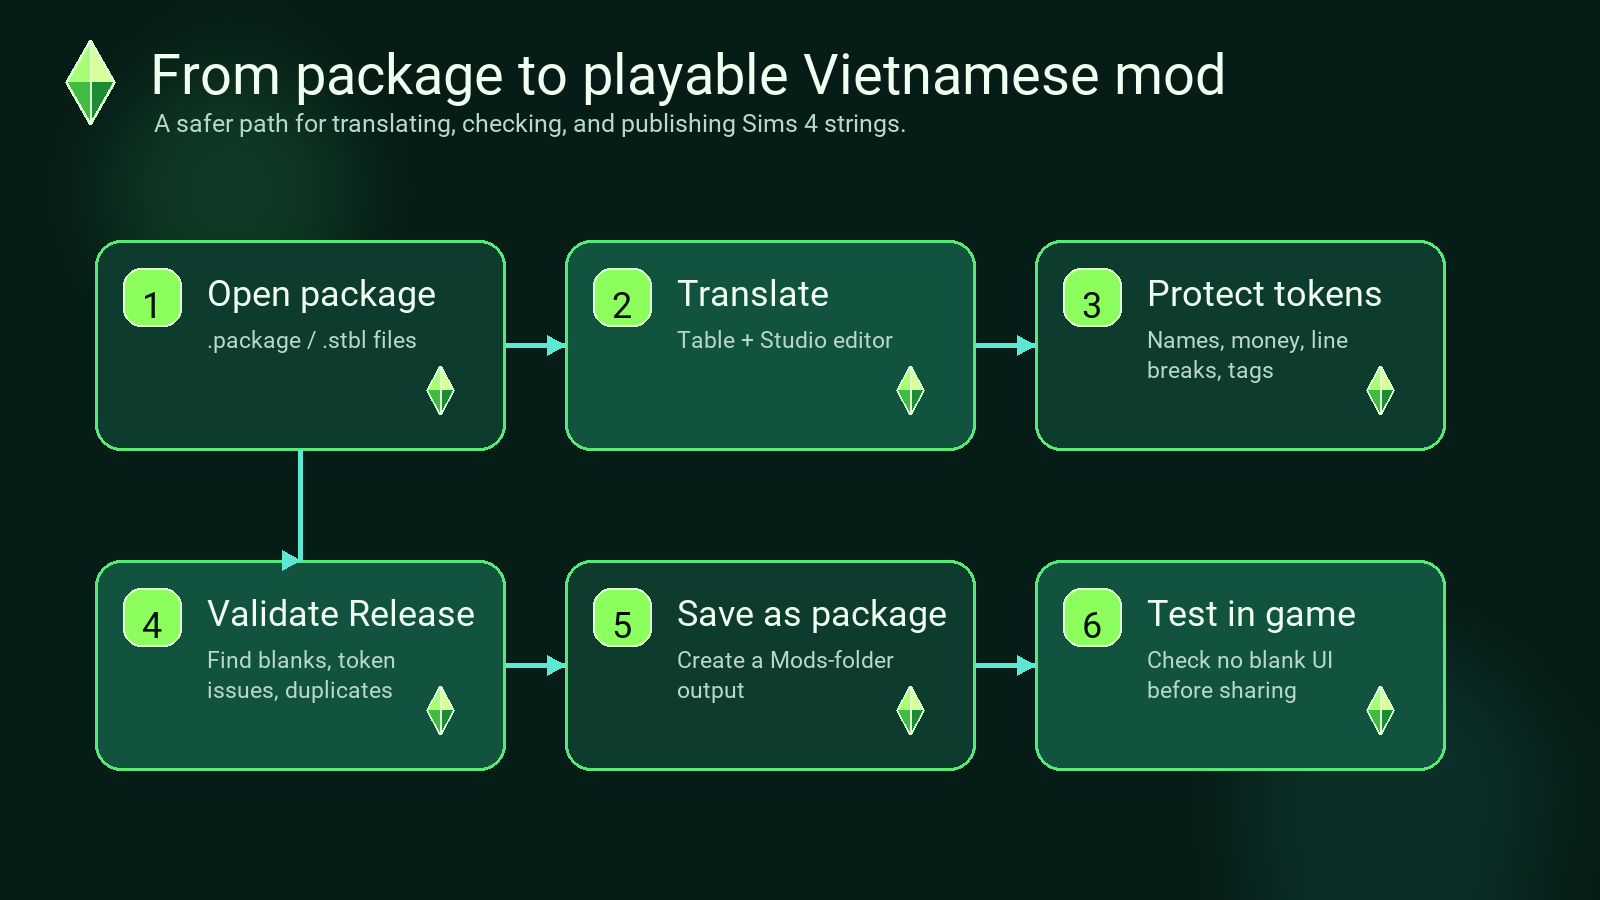
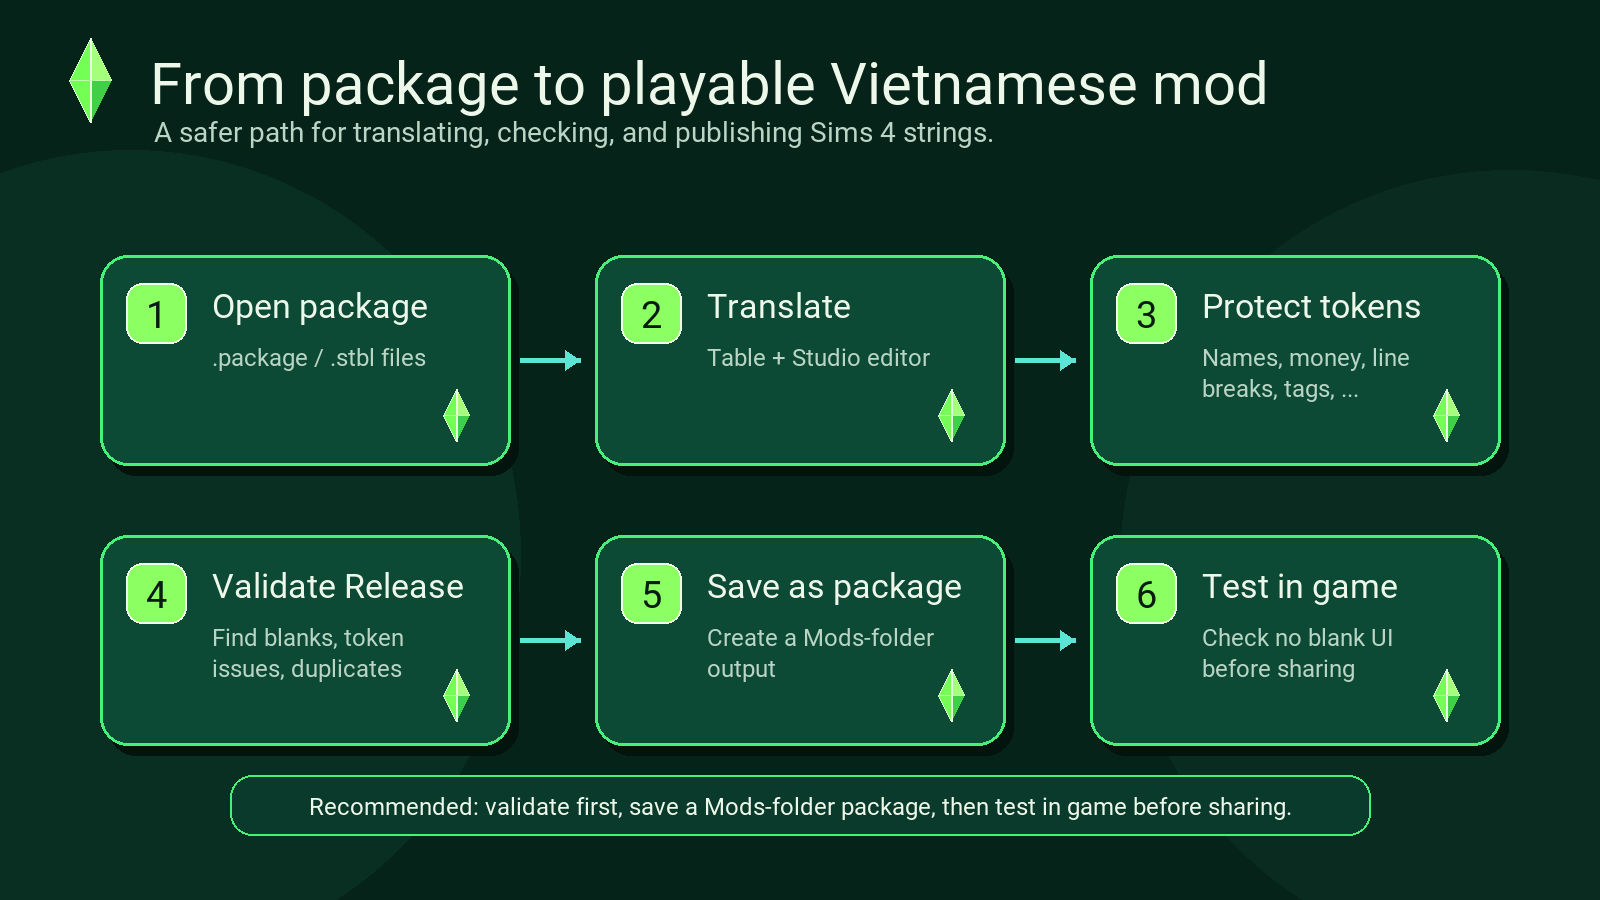
Polish public README visuals for release clarity
The public README now uses shared workflow and token-safety visuals with documented provenance, while the Vietnamese README keeps localized app screenshots and avoids maintaining duplicate generated diagrams.

Constraint: Do not use official EA/Maxis/The Sims artwork, logos, fonts, game screenshots, or copied UI assets

Rejected: Keep separate Vietnamese generated workflow diagrams | duplicate assets already drifted and were harder to maintain

Confidence: high

Scope-risk: narrow

Directive: Keep generated README diagrams shared unless language-specific text is truly necessary

Tested: powershell -NoProfile -ExecutionPolicy Bypass -File scripts\check_fast.ps1

Not-tested: GitHub-rendered mobile preview after commit

Changed region(s): [[0.0625, 0.5911, 0.9375, 0.9333], [0.0625, 0.2489, 0.9375, 0.5289], [0.0312, 0.0622, 0.8125, 0.1556]]

diff --git a/docs/assets/readme/IMAGE-SOURCES.md b/docs/assets/readme/IMAGE-SOURCES.md
@@ -1,0 +1,49 @@
+# README Image Sources
+
+This file documents the provenance and intended use of images under `docs/assets/readme`.
+
+The project is a community localization tool. These images must not use official EA, Maxis, or The Sims artwork, logos, fonts, game screenshots, characters, copied UI assets, or copyrighted game visuals.
+
+## Real App Screenshots
+
+These images are screenshots of The Sims 4 Translator Plus using synthetic or demo package data. They should not contain API keys, personal paths, private package names, real mod data, or game screenshots.
+
+| Image | README use | Notes |
+| --- | --- | --- |
+| `workspace.png` | English README workspace section | English UI screenshot showing table-first workflow, Selection Preview, filters, token highlighting, and activity dock. |
+| `editor.png` | English README editor section | English UI screenshot showing Translation Studio and token safety. |
+| `validate-release.png` | English README validation section | English UI screenshot showing the pre-release validation report. |
+| `vi/workspace.png` | Vietnamese README workspace section | Vietnamese UI screenshot using demo translation data. |
+| `vi/editor.png` | Vietnamese README editor section | Vietnamese UI screenshot. Original source text remains English; translation text is Vietnamese. |
+| `vi/validate-release.png` | Vietnamese README validation section | Vietnamese UI screenshot showing localized validation labels and synthetic/demo issue data. |
+
+## Generated Diagrams
+
+These images are explanatory diagrams created for README documentation. They are not app screenshots and should not be presented as real UI.
+
+| Image | Purpose | Notes |
+| --- | --- | --- |
+| `workflow.png` | Explains the recommended package-to-Mods workflow. | Shared by English and Vietnamese READMEs to reduce duplicate maintenance. Step 3 uses `...` because Sims runtime token patterns are not limited to the examples shown. |
+| `token-safety.png` | Explains why source tokens must be preserved in Vietnamese translations. | Original text is English source text. Translation text is Vietnamese output. Token examples are illustrative, not exhaustive. |
+
+## Decorative Banner
+
+| Image | Purpose | Notes |
+| --- | --- | --- |
+| `hero.png` | Shared README banner. | Decorative, non-official visual for the translation studio theme. If replaced, keep it abstract and avoid official Sims branding or exact plumbob/logo composition. |
+
+## Future Hero Redesign Prompt
+
+If the banner is redesigned with an image generation tool, use a safe abstract prompt like:
+
+```text
+A polished banner for an open-source desktop translation utility. Dark green modern desk scene, abstract translation workspace on a monitor, clean table rows, document and speech bubble motifs, small validation/check icons, soft mint and lime accents, original faceted green translation crystal that is not a plumbob, professional software landing page style, no text, no logos, no game characters, no official game UI, high readability, balanced composition, subtle depth, friendly and trustworthy.
+```
+
+Avoid:
+
+```text
+The Sims logo, EA logo, Maxis logo, official plumbob, exact plumbob silhouette, game screenshots, game characters, copyrighted UI, official fonts, fake app screenshot with readable UI text, brand marks, watermark, overly cartoonish, noisy background, unreadable tiny details.
+```
+
+Recommended output: `docs/assets/readme/hero.png`, `1600x720`, optimized PNG or WebP-compatible replacement if the README is updated accordingly.

diff --git a/README.vi.md b/README.vi.md
@@ -17,10 +17,21 @@ Mở package, dịch string, giữ an toàn token của game, kiểm tra trướ
 ## Tải Và Chạy Trong 3 Bước
 
 1. Mở [trang release mới nhất](https://github.com/anhtahaylove/sims4-translator/releases/latest).
-2. Tải `The-Sims-4-Translator-Plus-v2.0.0-windows.zip`.
+2. Tải bản ZIP cho Windows. Tên file thường có dạng `The-Sims-4-Translator-Plus-vX.Y.Z-windows.zip`.
 3. Giải nén ZIP, rồi chạy `The Sims 4 Translator Plus.exe`.
 
 Không chạy app trực tiếp bên trong file ZIP. Hãy giải nén trước để app đọc được thư mục `prefs` và `fonts` đi kèm.
+
+Bạn cần hỗ trợ? Hãy [báo lỗi hoặc góp ý](https://github.com/anhtahaylove/sims4-translator/issues), hoặc xem [hướng dẫn đóng góp](CONTRIBUTING.md).
+
+## Yêu Cầu Hệ Thống
+
+| Yêu cầu | Ghi chú |
+| --- | --- |
+| Windows | Bản exe đóng gói hướng tới Windows 10 trở lên. |
+| Internet | Không bắt buộc. Chỉ cần khi dùng dịch online như DeepL, Google hoặc MyMemory. |
+| DeepL key | Không bắt buộc. Chỉ thêm nếu bạn muốn dùng DeepL, kiểm tra usage hoặc glossary. |
+| Chạy từ source | Người dùng source cần Python và các package trong `requirements.txt`; repo chưa pin một phiên bản Python cụ thể. |
 
 ## App Này Giúp Bạn Làm Gì?
 
@@ -62,7 +73,9 @@ Source: ENG_US
 Destination: VI_VN
 ```
 
-![Tổng quan workflow Việt hóa](docs/assets/readme/vi/workflow.png)
+![Tổng quan workflow Việt hóa](docs/assets/readme/workflow.png)
+
+_Luồng khuyến nghị để tạo package an toàn hơn trước khi đưa vào thư mục Mods._
 
 Luồng làm việc nên dùng:
 
@@ -80,6 +93,13 @@ Documents\Electronic Arts\The Sims 4\Mods
 Chỉ dùng **Finalize** khi bạn thật sự muốn ghi/finalize resource vào package. Nếu dùng workflow đó, hãy giữ backup.
 
 Nếu chuẩn bị phát hành bản Việt hóa công khai, xem thêm [docs/release-checklist.md](docs/release-checklist.md).
+
+## Lưu Ý An Toàn Và Giới Hạn
+
+- Dịch máy chỉ nên xem là bản nháp. Hãy rà soát các string quan trọng trước khi phát hành.
+- Token runtime, ký hiệu xuống dòng và tag định dạng của game cần được giữ đúng.
+- Chỉ dùng **Finalize** khi bạn thật sự hiểu workflow đó và luôn giữ backup.
+- Đây là công cụ cộng đồng, không kèm file game hoặc asset chính thức.
 
 ## Save As Package Hay Finalize?
 
@@ -100,11 +120,14 @@ String của The Sims 4 thường có những đoạn đặc biệt mà game dù
 {1.Money}
 \n
 <b>important text</b>
+...
 ```
 
 Nếu bản dịch làm mất hoặc đổi sai các đoạn này, game có thể hiện sai text hoặc bị trống UI. App sẽ highlight token và cảnh báo khi bản dịch không còn khớp với text gốc.
 
-![Ví dụ Token Safety](docs/assets/readme/vi/token-safety.png)
+![Ví dụ Token Safety](docs/assets/readme/token-safety.png)
+
+_Original giữ tiếng Anh gốc. Translation có thể là tiếng Việt, nhưng token runtime vẫn phải khớp._
 
 Nói ngắn gọn: bạn có thể dịch câu chữ cho tự nhiên, nhưng token, xuống dòng và tag định dạng phải được giữ đúng ý đồ.
 

diff --git a/README.md b/README.md
@@ -17,10 +17,21 @@ Open a package, translate the strings, keep Sims tokens safe, validate your rele
 ## Download In 3 Steps
 
 1. Go to the [latest release](https://github.com/anhtahaylove/sims4-translator/releases/latest).
-2. Download `The-Sims-4-Translator-Plus-v2.0.0-windows.zip`.
+2. Download the Windows ZIP. The filename looks like `The-Sims-4-Translator-Plus-vX.Y.Z-windows.zip`.
 3. Extract the ZIP, then run `The Sims 4 Translator Plus.exe`.
 
 Do not run the app from inside the ZIP. Extract it first so the app can read its bundled `prefs` and `fonts` folders.
+
+Need help? [Report a problem](https://github.com/anhtahaylove/sims4-translator/issues) or read the [contributing guide](CONTRIBUTING.md).
+
+## System Requirements
+
+| Requirement | Notes |
+| --- | --- |
+| Windows | Windows 10 or newer is the supported target for the packaged app. |
+| Internet | Optional. Needed only for online translation providers such as DeepL, Google, or MyMemory. |
+| DeepL key | Optional. Add one only if you want DeepL translation, usage checks, or glossary support. |
+| Source build | Source users need Python and the packages in `requirements.txt`; the repo does not pin an exact Python version. |
 
 ## What Can I Do With It?
 
@@ -64,6 +75,8 @@ Destination: VI_VN
 
 ![Vietnamese workflow overview](docs/assets/readme/workflow.png)
 
+_Recommended flow for a safer Mods-folder release._
+
 Recommended flow:
 
 1. Open one or more `.package` or `.stbl` files.
@@ -80,6 +93,13 @@ Documents\Electronic Arts\The Sims 4\Mods
 Use **Finalize** only when you deliberately want to rewrite or finalize package resources. Keep backups if you use that workflow.
 
 For a deeper publish checklist, see [docs/release-checklist.md](docs/release-checklist.md).
+
+## Known Limitations And Safety Notes
+
+- Machine translation is a draft. Review important strings before publishing.
+- Keep Sims runtime tokens, line breaks, and formatting tags intact.
+- Use **Finalize** deliberately and keep backups, especially when working with full game or DLC-sized packages.
+- This project is a community tool and does not include official game files or assets.
 
 ## Save As Package Or Finalize?
 
@@ -100,11 +120,14 @@ Sims strings often contain special pieces that the game reads at runtime:
 {1.Money}
 \n
 <b>important text</b>
+...
 ```
 
 If a translation removes or changes those pieces, the game can show incorrect text or blank UI. The app highlights these parts and warns you when the translation no longer matches the original.
 
 ![Token safety visual example](docs/assets/readme/token-safety.png)
+
+_Original stays in English. Translation can be Vietnamese, but runtime tokens still need to match._
 
 The important idea is simple: translate the human-readable words, but keep the runtime tokens, line breaks, and tags intentionally preserved.
 